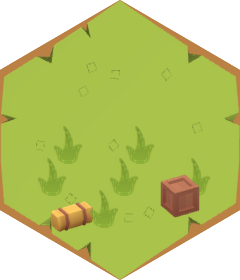
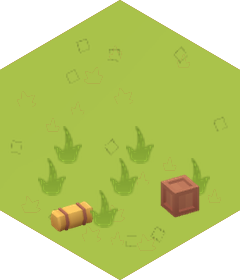
art: les champs et les landes ne sont plus des hexagones
Le commanditaire trouvait que « les landes et champs sont trop hexagonaux,
ça fait tache sur l'île ». Trois causes :

- la dalle KayKit du champ était rendue à la largeur exacte de la tuile :
  son liseré de terre et ses coins biseautés, cuits dans le modèle,
  dessinaient l'hexagone au pixel près. Le pipeline sait maintenant rendre
  un calque plus large que la tuile et le rogner à l'hexagone (`rogne=True`) ;
  la dalle passe à 312 px pour 240 et son bord tombe dehors ;
- les fondus entre sols étaient des dégradés rectilignes, dans les deux
  sens : chaque sol débordait sur l'autre, ce qui faisait sur un damier de
  champs et de prés un flou symétrique en hexagones. Un seul sol franchit
  désormais l'arête (relief > sable > terre > champ > lande > herbe), en
  langue irrégulière de 6 à 33 px, masque au 2× ;
- les rangs de culture s'arrêtaient net au bord de la tuile : la lisière
  s'effiloche.

Claude-Session: https://claude.ai/code/session_01XHx1sYnE2rY8XF5VjjnSNn

diff --git a/src/game/render.js b/src/game/render.js
@@ -65,6 +65,13 @@ const estPlat = (tpl) => PLAT.has(tpl.replace(/\{[sw]\}/g, ''));
 const RELIEF = new Set(['stone', 'hill']);
 /** Deux sols qui se touchent par une arête franche plutôt que par un fondu. */
 const areteFranche = (a, b) => (RELIEF.has(a) || RELIEF.has(b)) && (a === 'grass' || b === 'grass' || (RELIEF.has(a) && RELIEF.has(b)));
+// Qui déborde sur qui. Un seul des deux sols franchit l'arête, en langue irrégulière ; l'autre s'arrête
+// net dessous. Deux fondus croisés (chacun débordant sur l'autre) faisaient un flou symétrique qui, sur
+// un damier de champs et de prés, redessinait la grille en hexagones flous. Le relief passe sur tout,
+// le sable et la terre sur les cultures, les cultures et la lande sur l'herbe.
+const PRIORITE_SOL = ['stone', 'hill', 'sand', 'dirt', 'field', 'heath', 'dry', 'grass'];
+const rang = (g) => { const i = PRIORITE_SOL.indexOf(g); return i < 0 ? 99 : i; };
+const deborde = (gn, g) => rang(gn) < rang(g);
 const FAUNA_GROUND = 10;   // un animal se tient un peu en avant du centre de sa tuile, comme le décor
 const SEA = { spring: ['#8fc8e6', '#5f9fc8'], summer: ['#7fc0e4', '#4f93c2'], autumn: ['#8cb9d3', '#5d8fb3'], winter: ['#a9c7db', '#7aa2bf'] };
 // `bank` : l'ombre de la berge, posée SOUS l'eau et débordant vers le bas — c'est elle qui fait que l'eau
@@ -506,8 +513,8 @@ export class IslandRenderer {
       if (!this.noLens && t.family !== 'water' && d.s === 1 && d.dy === 0) {
         for (let dir = 0; dir < 6; dir++) {
           const n = b.get(t.q + DIRS[dir][0], t.r + DIRS[dir][1]); if (!n || n.family === 'water') continue;
-          const gn = this.decor.groundFor(n); if (gn === g || areteFranche(g, gn)) continue;
-          const lens = this.groundLens(gn, season, dir); if (lens) ctx.drawImage(lens, c.x - TILE_W * z / 2, c.y - TILE_H * z / 2, TILE_W * z, TILE_H * z);
+          const gn = this.decor.groundFor(n); if (gn === g || areteFranche(g, gn) || !deborde(gn, g)) continue;
+          const lens = this.groundLens(gn, season, dir, hash2(t.q * 7 + dir, t.r * 13) < 1 / 3 ? 0 : hash2(t.q * 7 + dir, t.r * 13) < 2 / 3 ? 1 : 2); if (lens) ctx.drawImage(lens, c.x - TILE_W * z / 2, c.y - TILE_H * z / 2, TILE_W * z, TILE_H * z);
         }
       }
     }
@@ -806,30 +813,73 @@ export class IslandRenderer {
   }
 
   /**
-   * Lentille de sol : l'image du sol `g` masquée par un dégradé perpendiculaire au bord `d` (opaque sur le bord, effacé
-   * à un tiers de l'apothème), limitée au trapèze de ce bord. Dessinée sur la tuile voisine, elle efface la couture.
-   * Cache par sol, saison et direction (au plus quelques dizaines de petites images).
+   * LE FONDU ENTRE DEUX SOLS. Sur la case, le sol de la voisine déborde par l'arête partagée et
+   * s'efface vers le centre. Il était droit : un trapèze et un dégradé linéaire — et un hexagone qui
+   * s'estompe reste un hexagone. Le commanditaire voyait les champs et les landes « faire tache ».
+   *
+   * Le bord du fondu suit donc un BRUIT : la voisine mord en langues irrégulières, sur une largeur
+   * qui varie d'une arête à l'autre (`variante`, choisie par case et par direction), et plus profond
+   * qu'avant (la moitié du rayon). Calculé pixel par pixel en 1× (la lentille est floue par nature,
+   * la pleine résolution ne lui apporterait rien) et gardé en cache : six directions × trois
+   * variantes par sol et par saison. Le liseré d'un pixel qu'on voyait encore à l'arête venait de
+   * l'anticrénelage du bord de la lentille : elle déborde maintenant de trois unités sur la voisine,
+   * dans la couleur moyenne du sol, ce qui est invisible chez elle et couvre le bord chez nous.
    */
-  groundLens(g, season, d) {
-    const k = `${g}|${season}|${d}`; this._lens = this._lens || new Map();
+  /**
+   * Le masque d'une lentille : pour la direction `d` et la variante, l'opacité de chaque pixel (0 à
+   * 255) et, au-delà de l'arête, la marque du débord (255 dans un second tableau). Il ne dépend ni du
+   * sol ni de la saison : dix-huit masques au plus, calculés une fois — c'est le bruit pixel par pixel
+   * qui coûte, pas l'application. Sans ce partage, un changement de saison figeait l'image le temps
+   * de refaire une trentaine de lentilles.
+   */
+  masqueLentille(d, variante) {
+    const k = `${d}|${variante}`; this._masques = this._masques || new Map();
+    const hit = this._masques.get(k); if (hit) return hit;
+    // le masque est calculé au 2×, la résolution des images de sol : au 1×, la lisière franche
+    // se voyait en marches d'escalier dès qu'on s'approchait
+    const S = 2, W = TILE_W * S, H = TILE_H * S, n = W * H;
+    const alpha = new Uint8Array(n), debord = new Uint8Array(n);
+    // géométrie en unités monde (= pixels en 1×) : normales sortantes des six arêtes
+    const normales = []; for (let e = 0; e < 6; e++) { const m = edgeMid(0, 0, e); normales.push([m.x / 60, m.y / 60]); }
+    const APOTHEME = 60, PROF = 0.55 * APOTHEME, DEBORD = 3;
+    const sx = 31.7 * (variante + 1), sy = -12.3 * (variante + 1) + 57.1;
+    const lisse = (t) => t * t * (3 - 2 * t);
+    for (let y = 0; y < H; y++) for (let x = 0; x < W; x++) {
+      const wx = (x - W / 2) / S, wy = (y - H / 2) / S, i = y * W + x;
+      // la case appartient à l'arête dont la normale la « voit » le plus : les six quartiers de l'hexagone
+      let best = 0, bi = 0; for (let e = 0; e < 6; e++) { const v = wx * normales[e][0] + wy * normales[e][1]; if (v > best) { best = v; bi = e; } }
+      if (bi !== d) continue;
+      const dist = APOTHEME - best;   // distance à l'arête, vers l'intérieur
+      if (dist < -DEBORD) continue;
+      if (dist < 0) { alpha[i] = 255; debord[i] = 255; continue; }
+      // une lisière franche mais irrégulière : la langue de sol avance de 6 à 33 px selon le bruit,
+      // avec 5 px d'adoucissement — pas un dégradé (il laissait transparaître la couture de la tuile)
+      const bruit = 2 * (0.62 * valeur(x / S / 23 + sx, y / S / 23 + sy) + 0.38 * valeur(x / S / 9 + sy, y / S / 9 - sx)) - 1;
+      const seuil = PROF * (0.6 + 0.4 * bruit);
+      alpha[i] = Math.round(255 * (1 - lisse(clamp((dist - seuil) / 5 + 0.5, 0, 1))));
+    }
+    const m = { alpha, debord }; this._masques.set(k, m); return m;
+  }
+
+  groundLens(g, season, d, variante = 0) {
+    const k = `${g}|${season}|${d}|${variante}`; this._lens = this._lens || new Map();
     const hit = this._lens.get(k); if (hit !== undefined) return hit;
-    const img = Assets.img(groundKey(g, season)); if (!img) { this._lens.set(k, null); return null; }
-    const W = img.width, H = img.height, sc = W / TILE_W;
+    const key0 = groundKey(g, season); const img = Assets.img(key0); if (!img) { this._lens.set(k, null); return null; }
+    const W = TILE_W * 2, H = TILE_H * 2; const { alpha, debord } = this.masqueLentille(d, variante);   // au 2×, comme le masque
     const cv = document.createElement('canvas'); cv.width = W; cv.height = H; const c = cv.getContext('2d');
-    const c0 = { x: 0, y: 0 }; const pts = corners(0, 0, SIZE); const m = edgeMid(0, 0, d);
-    const P = (x, y) => [W / 2 + x * sc, H / 2 + y * sc];
-    const a = pts[d], bpt = pts[(d + 1) % 6]; const depth = 0.42;
-    const ia = [a[0] * (1 - depth), a[1] * (1 - depth)], ib = [bpt[0] * (1 - depth), bpt[1] * (1 - depth)];
-    c.beginPath(); c.moveTo(...P(a[0], a[1])); c.lineTo(...P(bpt[0], bpt[1])); c.lineTo(...P(ib[0], ib[1])); c.lineTo(...P(ia[0], ia[1])); c.closePath(); c.clip();
-    c.drawImage(img, 0, 0);
-    const [mx, my] = P(m.x, m.y); const [cx, cy] = P(c0.x, c0.y);
-    const grad = c.createLinearGradient(mx, my, mx + (cx - mx) * depth, my + (cy - my) * depth);
-    grad.addColorStop(0, 'rgba(0,0,0,0.95)'); grad.addColorStop(0.35, 'rgba(0,0,0,0.7)'); grad.addColorStop(1, 'rgba(0,0,0,0)');
-    c.globalCompositeOperation = 'destination-in'; c.fillStyle = grad; c.fillRect(0, 0, W, H);
+    // la couleur moyenne du sol, pour le débord au-delà de l'arête (l'image y est transparente)
+    const col = GROUND_COLORS[g] || ((Assets.manifest().images || {})[key0] || {}).ground_color || '#000';
+    c.fillStyle = col; c.fillRect(0, 0, W, H); const fond = c.getImageData(0, 0, W, H).data;
+    c.clearRect(0, 0, W, H); c.drawImage(img, 0, 0, W, H);
+    const id = c.getImageData(0, 0, W, H), px = id.data;
+    for (let i = 0, j = 0; i < alpha.length; i++, j += 4) {
+      if (debord[i]) { px[j] = fond[j]; px[j + 1] = fond[j + 1]; px[j + 2] = fond[j + 2]; px[j + 3] = alpha[i]; }
+      else px[j + 3] = (px[j + 3] * alpha[i] + 127) / 255 | 0;
+    }
+    c.putImageData(id, 0, 0);
     this._lens.set(k, cv); return cv;
   }
 
-  /** Voile de climat (multiplication d'une teinte claire sur l'île seulement) : ocre au chaud, vert d'eau à l'humide, bleu pâle au froid. */
   drawClimateTint(ctx) {
     const cl = this.isl.climate; if (!cl || !cl.tint) return;
     const cam = this.cam, b = this.isl.board; ctx.save(); ctx.globalCompositeOperation = 'multiply'; ctx.fillStyle = cl.tint; ctx.beginPath();

diff --git a/src/game/decor.js b/src/game/decor.js
@@ -499,6 +499,9 @@ export class Decor {
               const p = { x: x + (rng() - 0.5) * 3, y: y + (rng() - 0.5) * 2 };
               if (inRegion(p, keys) !== ck || !edgeOk(p, ck, keys, 5)) continue;
               if (surChemin(p, 11)) continue;   // on ne sème pas au milieu du chemin
+              // la lisière du champ s'effiloche : les rangs coupés net au bord de la tuile redessinaient
+              // l'hexagone que les fondus entre sols viennent d'effacer
+              const d = distBord(p, ck, keys); if (d < 24 && rng() < 0.9 * (1 - d / 24)) continue;
               push(p, 'obj_crop_{s}');
             }
             // Deux silhouettes de récolte, tirées au sort. C'était la meule conique Kenney et la botte

diff --git a/tools/build_images.py b/tools/build_images.py
@@ -704,14 +704,14 @@ TILES = {
                                            L(KPOMMIER, 87, 90, height=58, fruits=True), L(KPOMMIER, 60, 108, height=58, fruits=True)],
                   note="Verger : 6 feuillus du pack Forest ; fruits dessinés en été/automne."),
     # --- champs : parcelles en quinconce + foin + clôture
-    "field_1": T("field", "dirt_06", [L("kay:terre", 60, 70, "field", width=236, flat=True, seasons=["spring"]),
-                                      L("kay:ble", 60, 70, "field", width=240, flat=True, seasons=["summer", "autumn", "winter"])]
+    "field_1": T("field", "dirt_06", [L("kay:terre", 60, 70, "field", width=306, flat=True, rogne=True, seasons=["spring"]),
+                                      L("kay:ble", 60, 70, "field", width=312, flat=True, rogne=True, seasons=["summer", "autumn", "winter"])]
                  + [L("ht:bushGrass:1.9", x, y, "crop") for (x, y) in
                     [(34, 68), (70, 68), (26, 84), (62, 84), (98, 84), (44, 100), (80, 100), (62, 116)]]
                  + [L("kay:botte_ronde", 96, 112, scale=0.85)],
                  base_kind="dirt", note="Champ : la parcelle de blé du pack EXTRA (dalle hexagonale rendue à la verticale, recolorée par saison), quelques rangs de culture et une botte ronde en volume."),
-    "field_2": T("field", "dirt_06", [L("kay:terre", 60, 70, "field", width=236, flat=True, mirror=True, seasons=["spring"]),
-                                      L("kay:ble", 60, 70, "field", width=240, flat=True, mirror=True, seasons=["summer", "autumn", "winter"])]
+    "field_2": T("field", "dirt_06", [L("kay:terre", 60, 70, "field", width=306, flat=True, rogne=True, mirror=True, seasons=["spring"]),
+                                      L("kay:ble", 60, 70, "field", width=312, flat=True, rogne=True, mirror=True, seasons=["summer", "autumn", "winter"])]
                  + [L("ht:bushGrass:1.9", x, y, "crop") for (x, y) in
                     [(44, 66), (80, 66), (34, 82), (70, 82), (26, 98), (62, 98), (98, 98), (52, 114)]]
                  + [L("kay:botte_ronde", 36, 112, scale=0.85), L("kay:crate", 90, 104, scale=1.1)],
@@ -973,6 +973,14 @@ class Composer:
             else:
                 x = layer["x"] * SCALE - im.width // 2
                 y = layer["y"] * SCALE - im.height
+            if layer.get("rogne"):
+                # calque volontairement plus large que la tuile, rogné à l'hexagone : c'est ainsi qu'une dalle
+                # KayKit perd son liseré et ses coins biseautés (cuits dans le modèle), qui tombent dehors
+                full = Image.new("RGBA", (TILE_W, TILE_H), (0, 0, 0, 0))
+                full.paste(im, (x, y), im)
+                full.putalpha(ImageChops.multiply(full.split()[3], self.hex_alpha))
+                canvas.alpha_composite(full)
+                continue
             # vérification : rien ne dépasse de l'hexagone
             probe = Image.new("L", (TILE_W, TILE_H), 0)
             probe.paste(im.split()[3], (x, y))
@@ -1142,12 +1150,14 @@ class Builder:
                 self.emit(f"ground_{kind}_{season}", "tiles", im, HP, self.src.hp_original(base), f"Sol « {kind} » ({season}) pour le décor composé par région.",
                           ground=kind, season=season, ground_color=col)
         # Sol de champ : les deux dalles hexagonales du pack EXTRA, rendues à la verticale, recolorées par saison —
-        # le labour au printemps, le blé le reste de l'année. Les rangs de culture restent posés par région
+        # le labour au printemps, le blé le reste de l'année. La dalle est rendue un peu plus large que la tuile
+        # et rognée à l'hexagone : son liseré de terre et ses coins biseautés dessinaient un hexagone net
+        # sur l'île, là où les fondus entre sols effacent partout ailleurs la grille. Les rangs de culture restent posés par région
         # (obj_crop_*) : ils donnent les sillons, la dalle donne la terre et les épis.
         for season in SEASONS:
             # la dalle de terre est plus étroite que celle de blé : à largeur égale elle dépasserait en hauteur
             spec = T("field", "dirt_06", [L("kay:terre" if season == "spring" else "kay:ble", 60, 70, "field",
-                                            width=236 if season == "spring" else 240, flat=True,
+                                            width=306 if season == "spring" else 312, flat=True, rogne=True,
                                             mirror=(season == "autumn"))], base_kind="dirt")
             base = comp.compose(f"ground_field_{season}", spec, season)
             arr = np.asarray(base)[120:170, 95:145, :3].reshape(-1, 3).mean(0)
